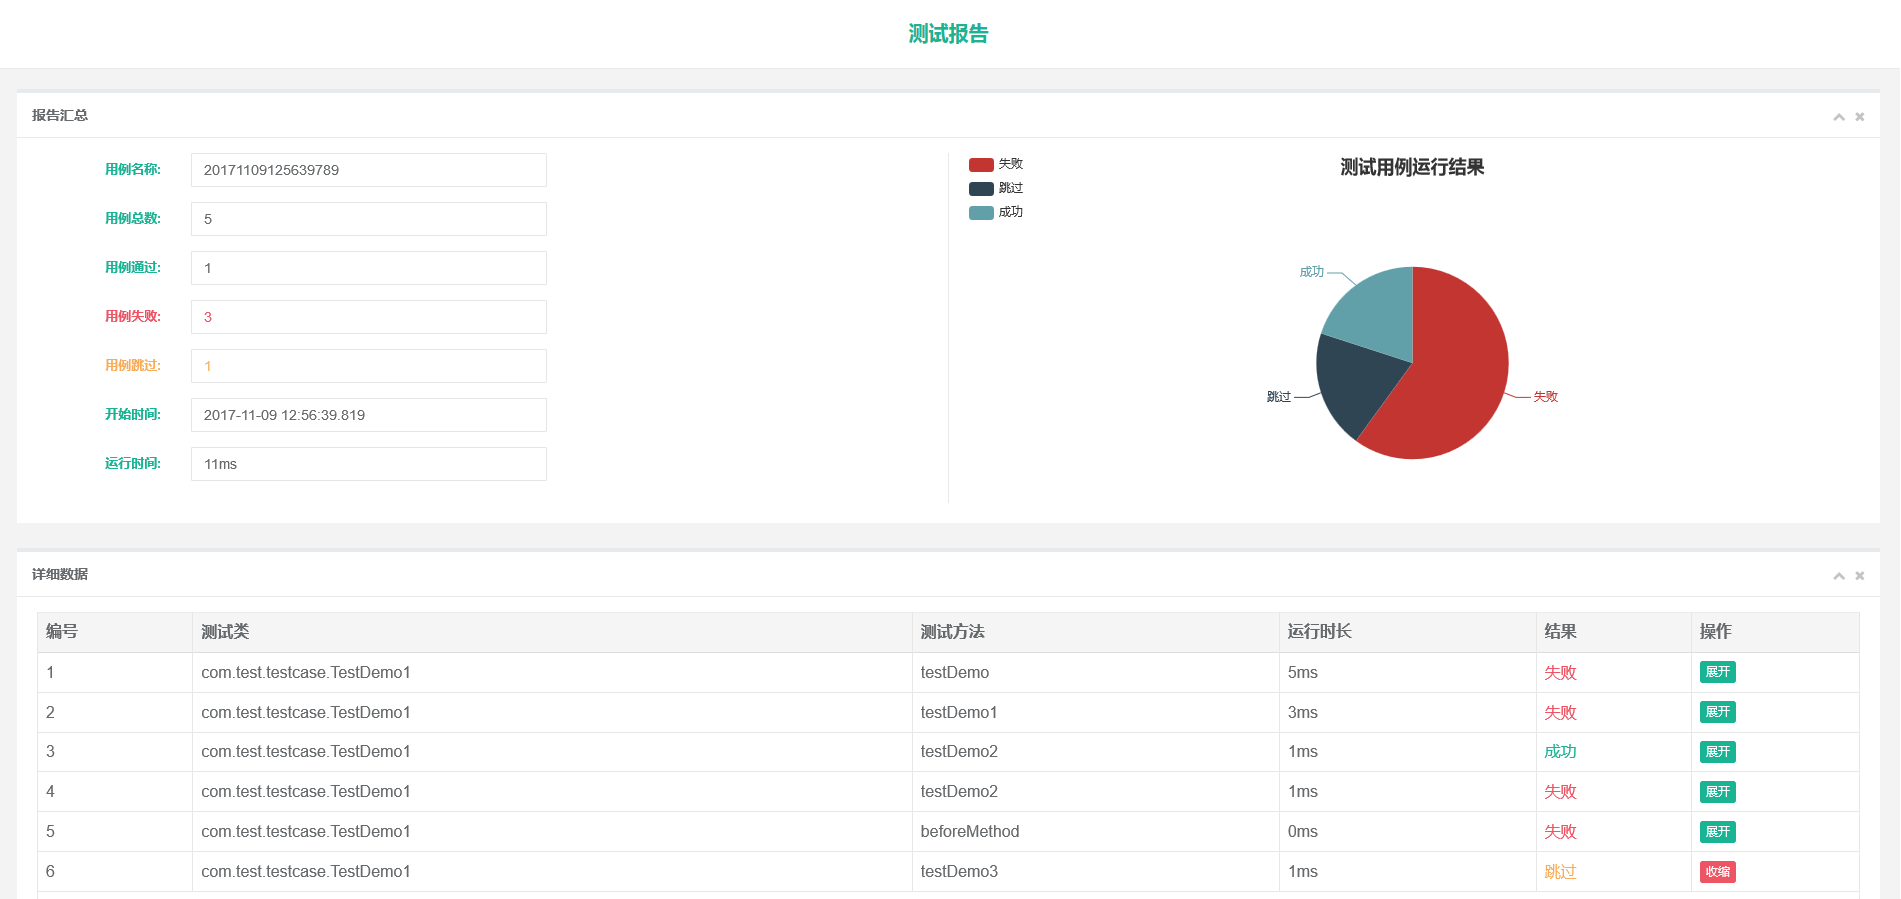
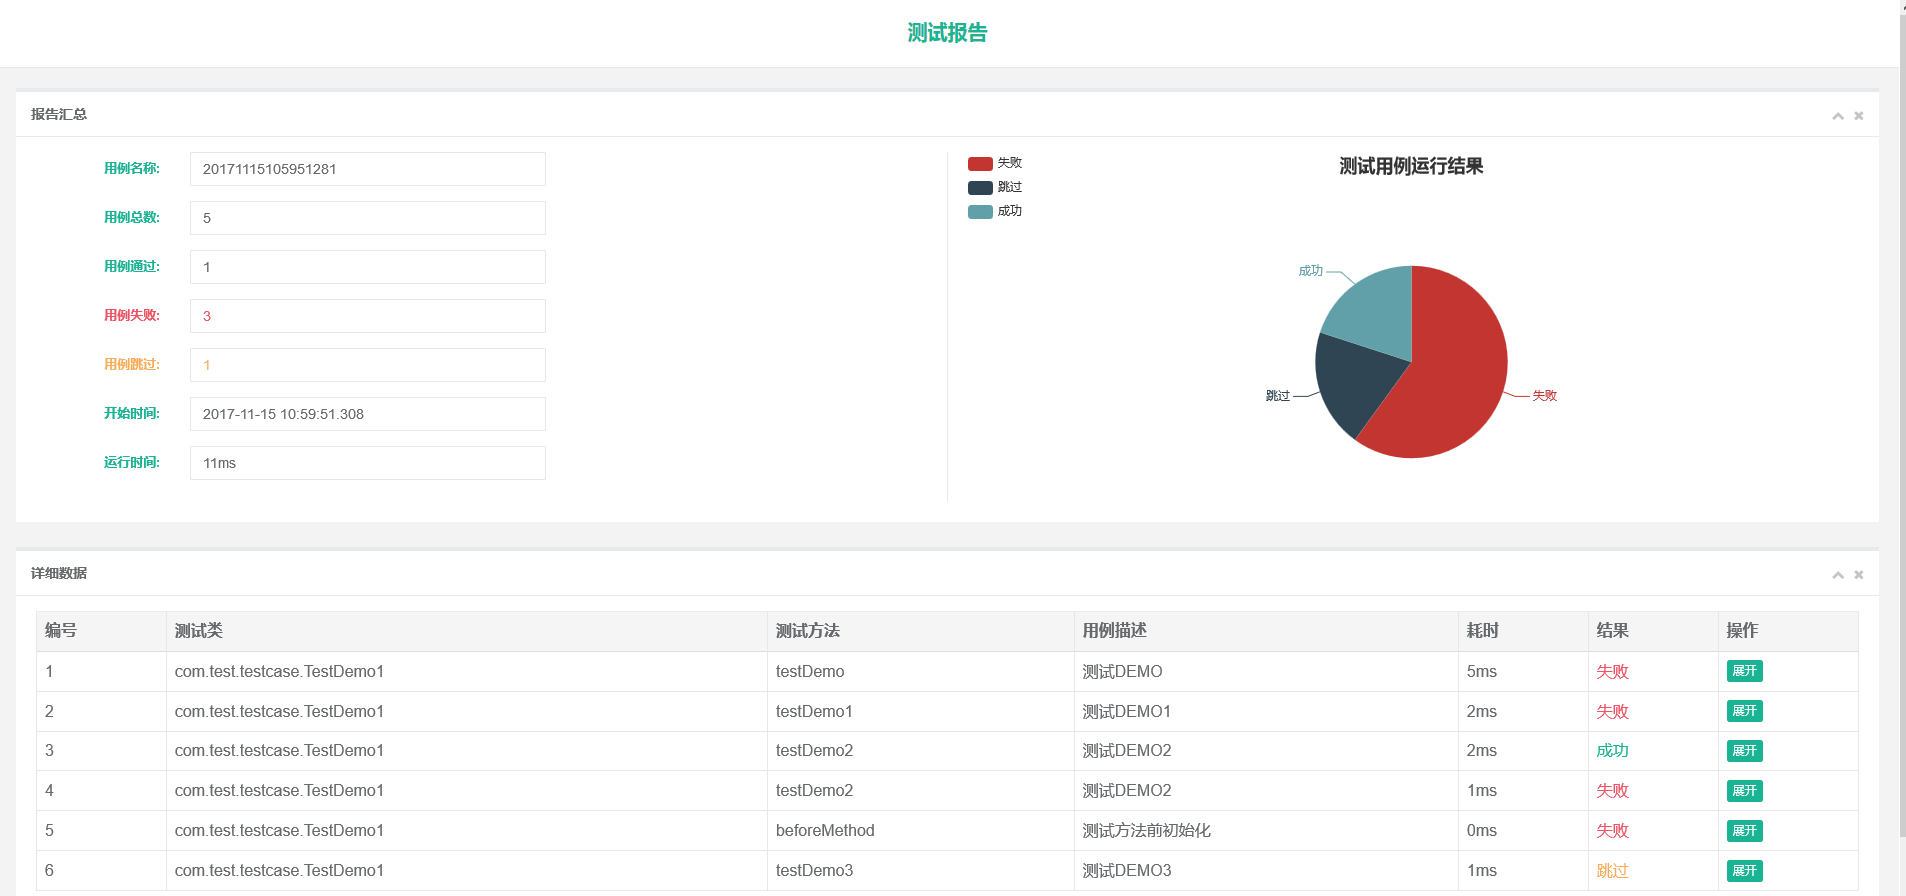
增加用例描述

diff --git a/TestDemo1.java b/TestDemo1.java
@@ -14,7 +14,7 @@ import com.test.report.ZTestReport;
 @Listeners({ZTestReport.class})
 public class TestDemo1{
 	
-	@BeforeMethod
+	@BeforeMethod(description="测试方法前初始化")
 	public void beforeMethod(Method m){
 		if("testDemo3".equals(m.getName())){
 			int a = 1/0;
@@ -22,7 +22,7 @@ public class TestDemo1{
 		}
 	}
 	
-	@Test
+	@Test(description="测试DEMO")
 	public void testDemo(){
 		Reporter.log("this is demo!");
 		int a = 1/0;
@@ -30,19 +30,19 @@ public class TestDemo1{
 		Assert.assertEquals("a", "b", "should be equals.");
 	} 
 	
-	@Test
+	@Test(description="测试DEMO1")
 	public void testDemo1(){
 		Reporter.log("this is demo!");
 		Assert.assertEquals("a", "b", "should be equals.");
 	} 
 	
-	@Test(dataProvider="test")
+	@Test(description="测试DEMO2",dataProvider="test")
 	public void testDemo2(int a){
 		Reporter.log("this is demo!");
 		Assert.assertEquals(a, 1, "should be equals.");
 	} 
 	
-	@Test
+	@Test(description="测试DEMO3")
 	public void testDemo3(){
 		Reporter.log("this is demo!");
 		Assert.assertEquals("a", "a", "should be equals.");

diff --git a/ZTestReport.java b/ZTestReport.java
@@ -129,6 +129,7 @@ public class ZTestReport implements IReporter {
 				info.setStatus(status);
 				info.setClassName(result.getInstanceName());
 				info.setMethodName(result.getName());
+				info.setDescription(result.getMethod().getDescription());
 				info.setLog(log);
 				listInfo.add(info);
 			}
@@ -178,6 +179,8 @@ public class ZTestReport implements IReporter {
 		private String className;
 	
 		private String methodName;
+		
+		private String description;
 		
 		private String spendTime;
 				
@@ -231,6 +234,14 @@ public class ZTestReport implements IReporter {
 
 		public void setLog(List<String> log) {
 			this.log = log;
+		}
+
+		public String getDescription() {
+			return description;
+		}
+
+		public void setDescription(String description) {
+			this.description = description;
 		}
 		
 	}

diff --git a/README.md b/README.md
@@ -28,6 +28,7 @@ output.write(template);
         {
             "className": "com.test.testcase.TestDemo1",
             "methodName": "testDemo",
+            "description": "测试DEMO",
             "spendTime": "11ms",
             "status": "成功",
             "log": [
